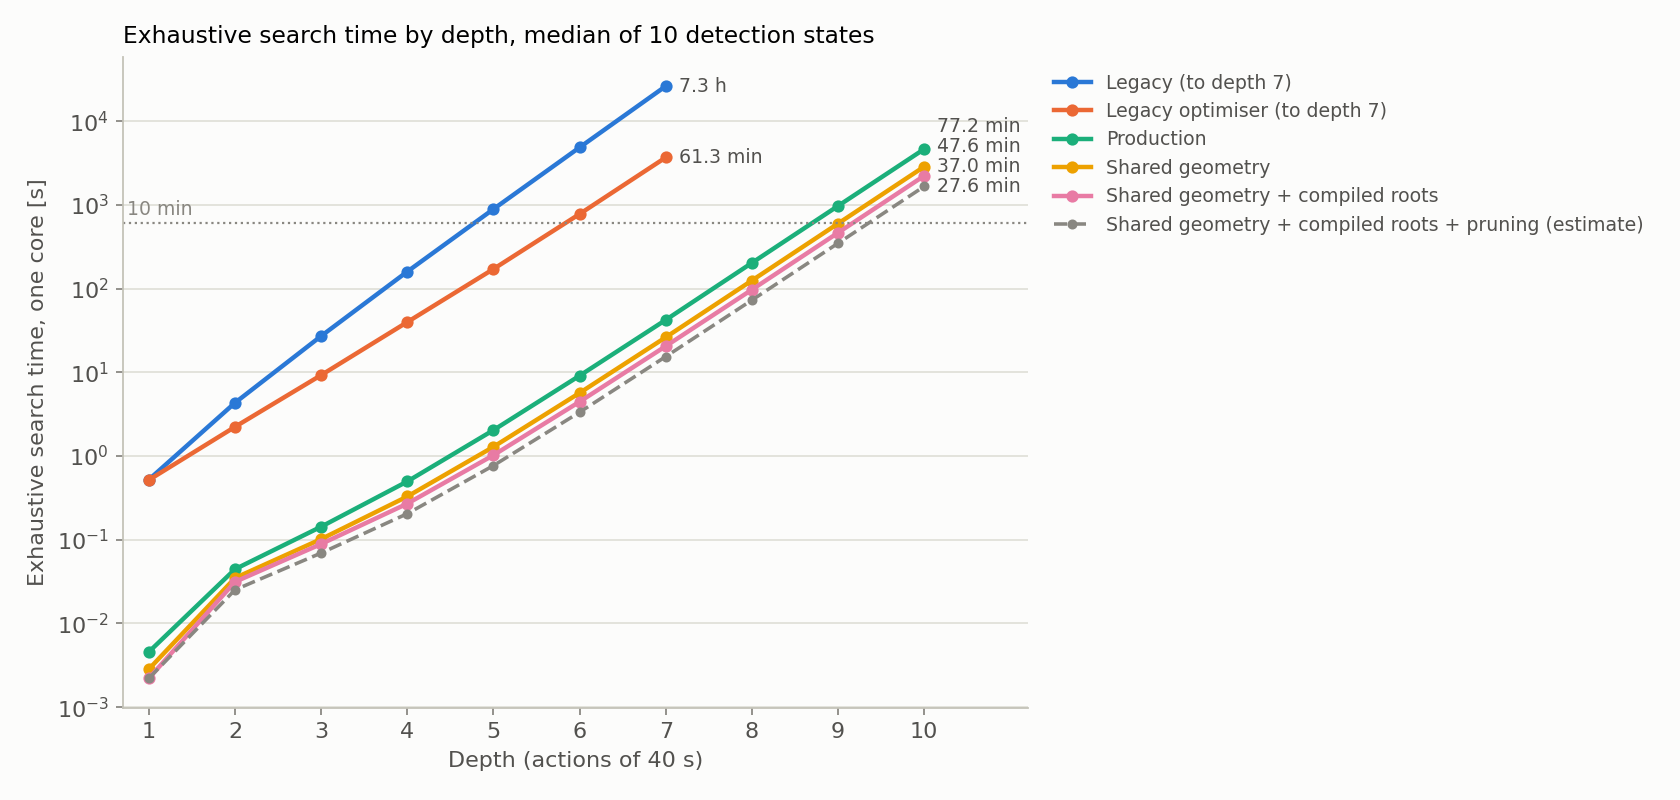
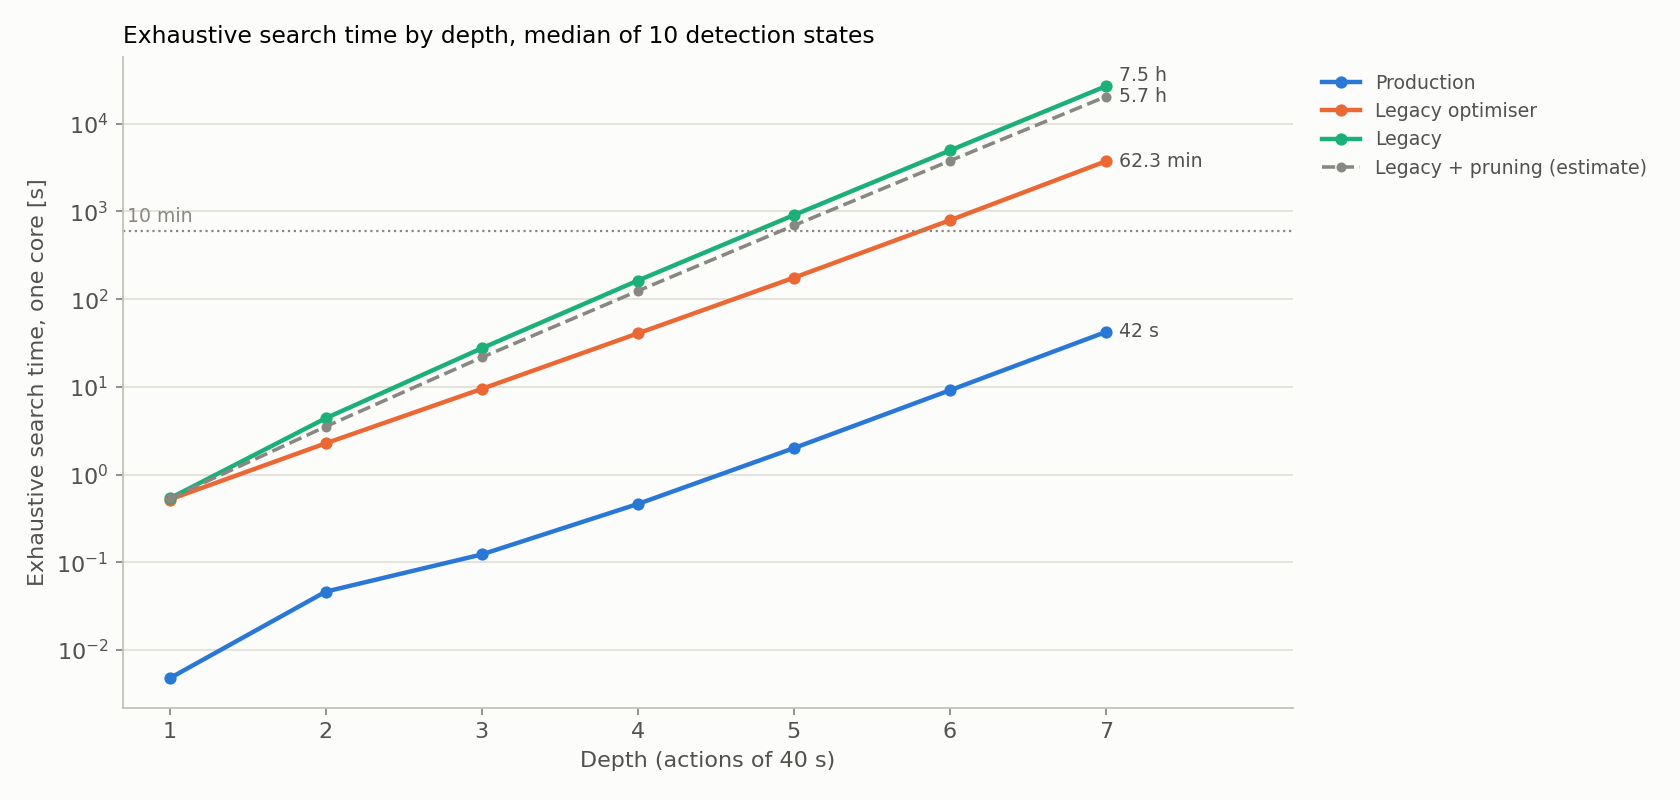
Use only the leaf-only (online-consistent) results
Cost per node counts the formula at the leaves only, and the legacy
comparison is re-run with the same accounting (27 Oct).

Claude-Session: https://claude.ai/code/session_01Dhssy28n4MqXyU1FpNCsoH

diff --git a/search_eval.tex b/search_eval.tex
@@ -39,7 +39,7 @@ to 27.3~min ($2.83\times$). Both implemented optimisations give the same
 certified sequences as production. The tree grows by a factor of about $4.8$
 per level, so these constant-factor gains amount to about two thirds of one
 depth level. After the optimisations, the ego projection is the largest
-remaining cost (47\% of the time per node).
+remaining cost (50\% of the time per node).
 \end{abstract}
 
 \tableofcontents
@@ -376,10 +376,9 @@ Two checks establish that an optimisation does not change the certificates.
 \paragraph{Whole search.} The counts of every depth (rollouts, clear,
 certified and extendable sequences) are compared state by state with
 production. They are identical for shared geometry and for shared geometry
-with compiled roots. They are also identical to the previous run of
-21 October, which shows that the per-depth formula timer did not change the
-search. The legacy optimiser certifies 10 more sequences at depth 7, in 4 of
-the 10 states.
+with compiled roots, and the separate depth-7 production run gives the same
+counts as the depth-10 run up to depth 7. The legacy optimiser certifies 10
+more sequences at depth 7, in 2 of the 10 states.
 
 \paragraph{Predicate inputs.} \code{variant\_check} records a random sample of
 predicate inputs (reachable set, projected ego state, time step) from the
@@ -402,10 +401,10 @@ Method & Samples & Differing & Lower raised & Upper lowered
 \cmidrule(l){6-7}
  & & & & & production & method \\
 \midrule
-Shared geometry & 198\,473 & 0 & 0 & 0 & 678 & 326 \\
-Shared geom.\ + compiled roots & 198\,473 & 0 & 0 & 0 & 683 & 146 \\
-Legacy optimiser (plan inputs) & 20\,000 & 2\,199 & 308 & 366 & 675 & 83\,758 \\
-Legacy optimiser (turn inputs) & 1\,444 & 1\,734 & 1\,324 & 1\,028 & 704 & 105\,812 \\
+Shared geometry & 198\,473 & 0 & 0 & 0 & 683 & 329 \\
+Shared geom.\ + compiled roots & 198\,473 & 0 & 0 & 0 & 683 & 145 \\
+Legacy optimiser (plan inputs) & 20\,000 & 2\,199 & 308 & 366 & 673 & 83\,325 \\
+Legacy optimiser (turn inputs) & 1\,444 & 1\,734 & 1\,324 & 1\,028 & 650 & 105\,205 \\
 \bottomrule
 \end{tabular}
 \end{table}
@@ -487,32 +486,35 @@ so only the cost of the predicate solves varies.
 \centering
 \includegraphics[width=\linewidth]{time_breakdown.png}
 \caption{Time per rollout (one tree node) and its split into parts, over all
-depths of each run. These figures include the formula at every node.}
+depths of each run. As online, the formula is counted only at the
+depth-10 leaves; its time is spread over all nodes.}
 \label{fig:breakdown}
 \end{figure}
 
 \begin{table}[htbp]
 \centering
-\caption{Time per rollout by part, all depths, formula at every node.}
+\caption{Time per rollout by part, over all depths to 10. The formula is
+counted at the depth-10 leaves only, as an online depth-10 search evaluates it,
+and spread over all nodes.}
 \label{tab:breakdown}
 \small
 \begin{tabular}{@{}lrrr@{}}
 \toprule
 Part & Production & Shared geometry & + compiled roots \\
 \midrule
-Ego projection & 0.379 ms (24\%) & 0.373 ms (37\%) & 0.367 ms (47\%) \\
-Predicates: root finding & 0.567 ms (35\%) & 0.196 ms (19\%) & 0.004 ms (1\%) \\
-Predicates: other & 0.434 ms (27\%) & 0.219 ms (22\%) & 0.201 ms (26\%) \\
-STL formula & 0.211 ms (13\%) & 0.202 ms (20\%) & 0.191 ms (25\%) \\
+Ego projection & 0.379 ms (24\%) & 0.373 ms (39\%) & 0.367 ms (50\%) \\
+Predicates: root finding & 0.567 ms (36\%) & 0.196 ms (20\%) & 0.004 ms (1\%) \\
+Predicates: other & 0.434 ms (28\%) & 0.219 ms (23\%) & 0.201 ms (27\%) \\
+STL formula & 0.168 ms (11\%) & 0.160 ms (17\%) & 0.152 ms (21\%) \\
 Other & 0.018 ms (1\%) & 0.016 ms (2\%) & 0.015 ms (2\%) \\
 \midrule
-Total & 1.609 ms & 1.006 ms & 0.779 ms \\
+Total & 1.565 ms & 0.965 ms & 0.740 ms \\
 \bottomrule
 \end{tabular}
 \end{table}
 
 Figure~\ref{fig:breakdown} and Table~\ref{tab:breakdown} show where the time
-of one node goes. In production, the predicates take 62\% of the node time,
+of one node goes. In production, the predicates take 64\% of the node time,
 of which root finding is the largest part. Shared geometry cuts the number of
 solves: root finding drops by about two thirds and the other predicate work
 by half. Compiled roots make root finding
@@ -522,31 +524,50 @@ The predicate-only speed-up is larger than the speed-up of the search:
 $4.7\times$ per sample for both optimisations together (Table~\ref{tab:check}),
 against $2.1\times$ per node. The difference is the ego projection and the
 formula, which the optimisations do not touch. Even with free predicates, a
-node would still cost 0.61~ms in production, so predicate work alone can give
-at most $2.65\times$. With both optimisations, the projection is the largest
-single part (47\%), followed by the remaining predicate work (26\%) and the
-formula (25\%).
+node would still cost 0.56~ms in production, so predicate work alone can give
+at most $2.8\times$. With both optimisations, the projection is the largest
+single part (50\%), followed by the remaining predicate work (27\%) and the
+formula (21\%). Per leaf, the formula costs 0.19--0.21~ms.
 
 \subsection{Comparison with the legacy implementations}
 
 \begin{figure}[htbp]
 \centering
 \includegraphics[width=\linewidth]{search_time_legacy.png}
-\caption{Search time by depth including the legacy implementations (run of
-21~October, to depth 7 for the legacy ones). In this run every node also
-evaluated the formula; the ratios between methods are comparable with
-Figure~\ref{fig:time}.}
+\caption{Search time by depth of production and the legacy implementations,
+to depth 7. Time accounted as in Figure~\ref{fig:time} (formula at the leaves
+only).}
 \label{fig:legacy}
 \end{figure}
 
-Figure~\ref{fig:legacy} adds the legacy implementations, from the run of
-21~October. That run included the formula at every node in all methods, so
-the ratios between methods are comparable, while the absolute times differ
-from Table~\ref{tab:time} by a few percent. At depth 7, production takes 42~s, the legacy optimiser 61.3~min
-($87\times$ slower) and the full legacy search 7.3~h ($620\times$ slower).
-Per node, SLSQP costs 130~ms against 1.6~ms for production. Recomputing the
-whole trace at every node adds another factor of about 7 at depth 7, a factor
-that grows with depth. The legacy optimiser is also not certificate-safe
+Figure~\ref{fig:legacy} and Table~\ref{tab:legacy} compare production with
+the legacy implementations to depth 7, with the same time accounting as
+Table~\ref{tab:time}. At depth 7, production takes 42~s, the legacy optimiser
+62.3~min ($88\times$ slower) and the full legacy search 7.5~h ($635\times$
+slower). Per node, the legacy optimiser costs 132~ms against 1.5~ms for
+production, almost all of it in SLSQP. Recomputing the whole trace at every
+node multiplies this by 4.0 at depth 4 and 7.2 at depth 7, a factor that grows
+with depth because a node at depth $d$ recomputes $d$ samples instead of one.
+
+\begin{table}[htbp]
+\centering
+\caption{Median one-core search time to depth $d$, production against the
+legacy implementations (slow-down relative to production).}
+\label{tab:legacy}
+\small
+\begin{tabular}{@{}rlll@{}}
+\toprule
+$d$ & Production & Legacy optimiser & Legacy (optimiser + full trace) \\
+\midrule
+3 & 0.12 s & 9.5 s ($77\times$) & 28 s ($225\times$) \\
+4 & 0.46 s & 41 s ($88\times$) & 2.7 min ($353\times$) \\
+5 & 2.0 s & 2.9 min ($88\times$) & 15.1 min ($454\times$) \\
+6 & 9.1 s & 13.2 min ($87\times$) & 82.7 min ($543\times$) \\
+7 & 42 s & 62.3 min ($88\times$) & 7.5 h ($635\times$) \\
+\bottomrule
+\end{tabular}
+\end{table}
+ The legacy optimiser is also not certificate-safe
 (Section~\ref{sec:verification}).
 
 \subsection{Tree size and certified sequences}
@@ -616,7 +637,7 @@ online, so deeper certificates need fewer branching levels (for example
 longer action holds at later levels), not only faster nodes.
 
 \paragraph{Where to optimise next.} After the two predicate optimisations,
-47\% of the node time is the ego projection, a 40-s closed-loop simulation of
+50\% of the node time is the ego projection, a 40-s closed-loop simulation of
 hull and autopilot. Pruning on the turn rule is the cheapest remaining gain
 (an estimated $1.34\times$ with identical certificates). Beyond that, the
 formula could be monitored incrementally instead of evaluated over the whole
@@ -651,7 +672,7 @@ rollouts per state) costs 77~min on one core with the production code.
 Sharing geometry between predicates and solving the secular equations in
 compiled code reduce this to 37~min ($2.11\times$) without changing a single
 certified sequence, and pruning on the turn rule is estimated to reach 27~min
-($2.83\times$). The legacy SLSQP optimiser was $87\times$ slower than
+($2.83\times$). The legacy SLSQP optimiser was $88\times$ slower than
 production and could raise lower bounds, which makes it unsafe for
 certification. Because the tree grows by about $4.8\times$ per level, these
 gains are worth less than one level of depth. The remaining cost is
@@ -670,8 +691,11 @@ python -m gym.eval.search.search_tree configuration/<run>.yaml \
     --variant <baseline|shared_geometry|numba_roots+shared_geometry> \
     --workers 40
 \end{verbatim}
-and then \code{python -m gym.eval.search.compare} on the three output folders.
-The accuracy check is \code{python -m gym.eval.search.variant\_check}.
+{\sloppy and then \code{python -m gym.eval.search.compare} on the three output folders.
+The legacy comparison does the same at depth 7 with the variants
+\code{legacy\_optimizer} and \code{legacy\_optimizer+legacy\_full\_trace}.
+Its job is \code{search\_compare\_legacy\_d7.slurm}, in the same folder.
+The accuracy check is \code{python -m gym.eval.search.variant\_check}.\par}
 
 \begin{center}
 \small
